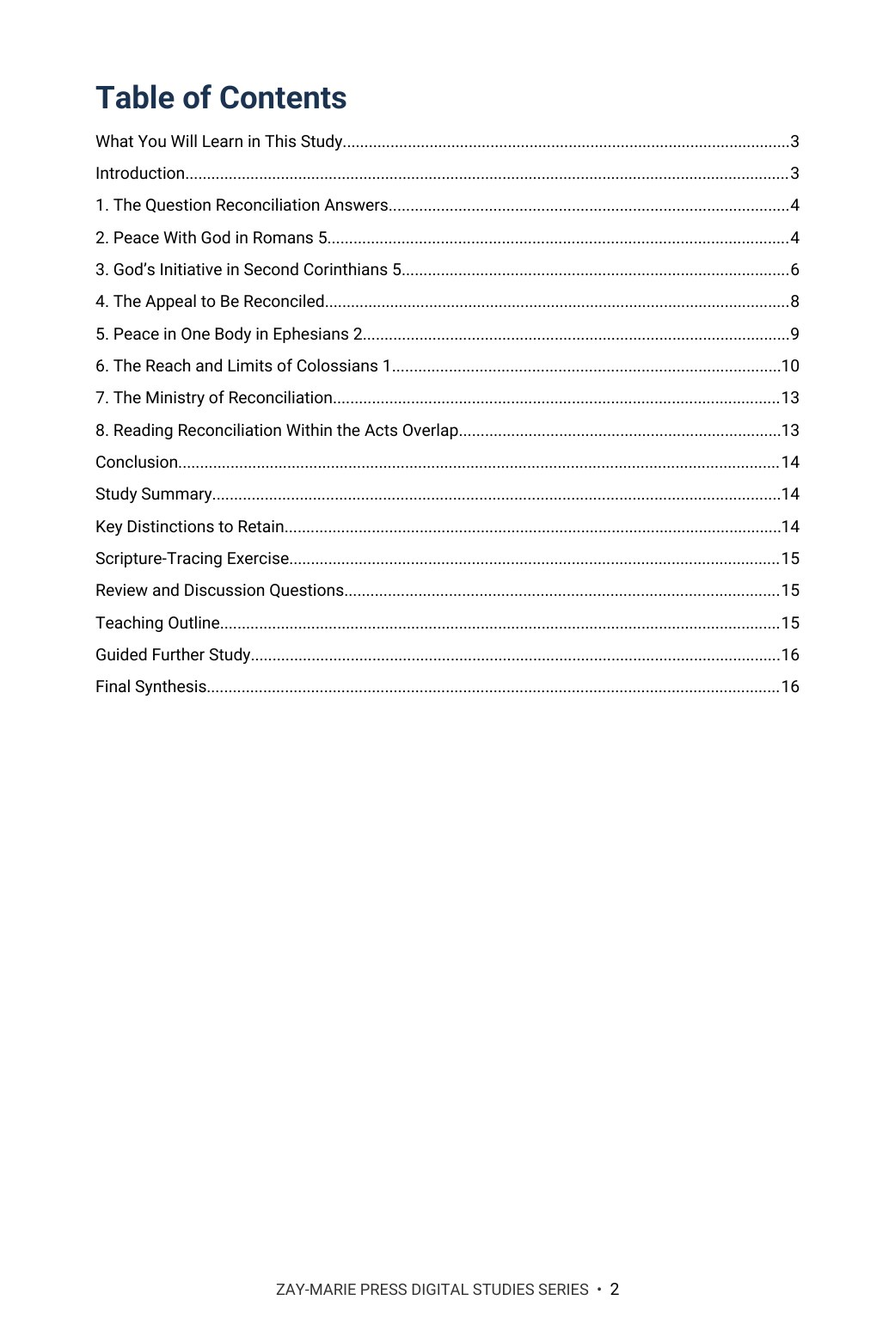
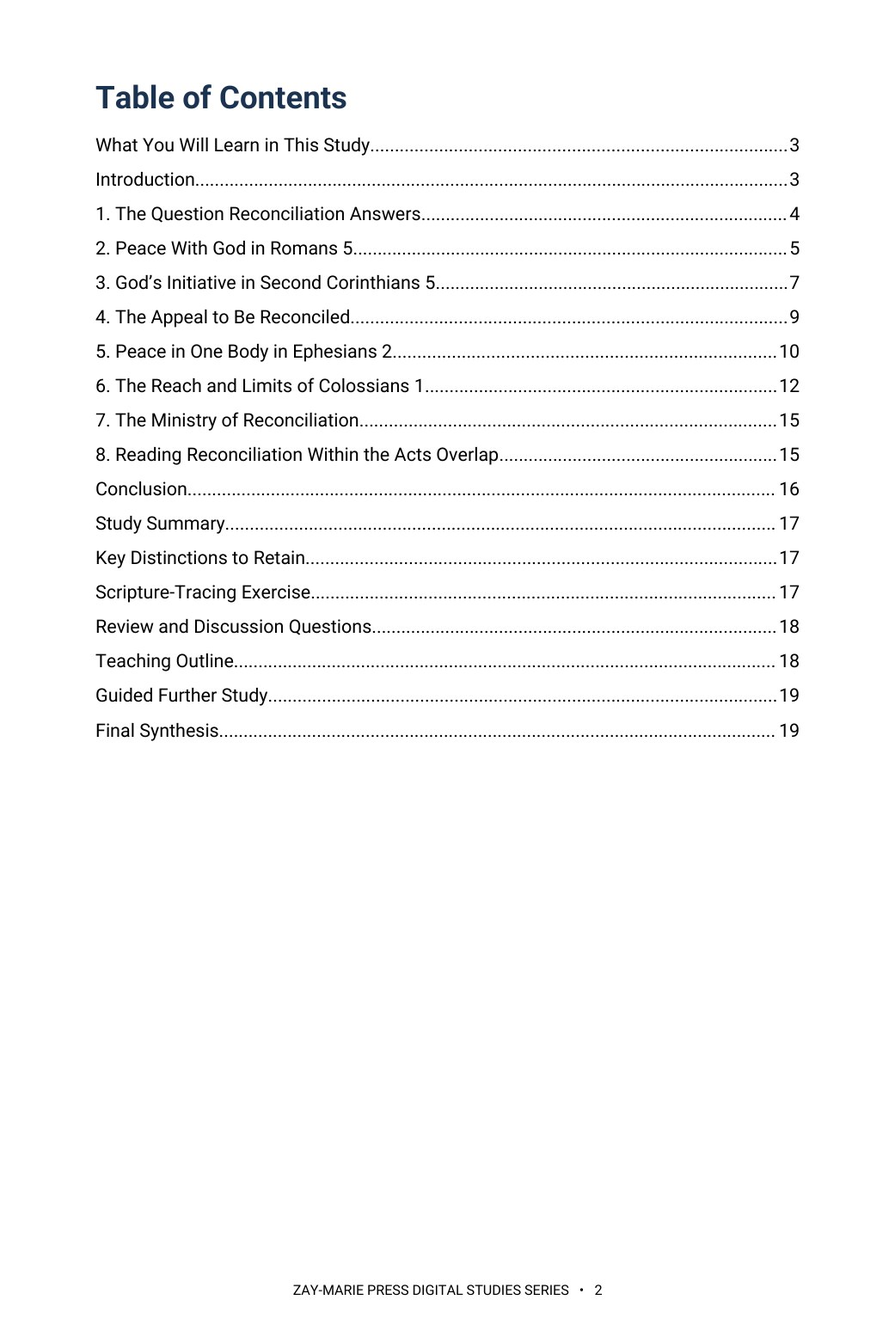
Study 55: rebuild at 10 pt (20 pages), retrofit edits, previews 2/3/9; trackers v1.68/v1.162
Claude-Session: https://claude.ai/code/session_01KcENxFzE91mCRyTPWhcwnE

Changed region(s): [[0.0922, 0.0922, 0.5533, 0.5531], [0.8607, 0.0922, 0.8915, 0.5224], [0.3074, 0.9526, 0.6455, 0.9834]]

diff --git a/study-55-reconciled-to-god.html b/study-55-reconciled-to-god.html
@@ -2,12 +2,12 @@
 <html lang="en"><head><meta charset="utf-8"><meta name="viewport" content="width=device-width,initial-scale=1"><title>Reconciled to God | Zay-Marie Press</title><meta name="description" content="Study 55 examines Paul’s doctrine of reconciliation: former enmity, peace with God through Christ, the appeal to be reconciled, and the entrusted ministry. Preview the study."><link rel="stylesheet" href="styles.css?v=20260921-4"><link rel="icon" type="image/png" href="assets/zay-marie-press-favicon.png"><style>
 .study-detail-page{background:#fff;color:#252525}.detail-hero{background:linear-gradient(135deg,#f8f5ec,#e3ece2);padding:58px 0}.detail-hero-grid{display:grid;grid-template-columns:minmax(250px,.72fr) minmax(0,1.28fr);gap:58px;align-items:center}.detail-cover{max-width:390px;margin:auto}.detail-cover img{display:block;width:100%;height:auto;box-shadow:0 14px 36px rgba(8,45,69,.18)}.detail-hero h1{font-size:clamp(2.7rem,5vw,4.7rem);line-height:1.02;margin:8px 0 10px;color:#143823}.detail-subtitle{font-family:Georgia,serif;font-size:1.35rem;font-weight:700;color:#082d45;margin:0 0 7px}.detail-kicker{font-family:Georgia,serif;font-style:italic;font-size:1.05rem;color:#4a4a44;margin:0 0 22px}.detail-copy{font-size:1.08rem;line-height:1.65;max-width:760px}.detail-buyline{display:flex;align-items:center;gap:18px;flex-wrap:wrap;margin-top:25px}.detail-price{font-family:Georgia,serif;font-size:2rem;font-weight:700;color:#143823}.detail-format,.preview-card .page-no{font-family:Arial,sans-serif;font-size:.76rem;font-weight:700;letter-spacing:.1em;text-transform:uppercase;color:#176b3a}.detail-button{display:inline-block;background:#176b3a;color:#fff;padding:13px 22px;font-family:Arial,sans-serif;font-size:.8rem;font-weight:700;letter-spacing:.07em;text-transform:uppercase}.detail-button.pending{opacity:.72;cursor:default}.detail-section{padding:66px 0}.detail-section.soft{background:#f6f7f2}.detail-section.cream{background:#faf8f2}.detail-section h2{color:#143823;margin:6px 0 18px;font-size:clamp(2rem,3.4vw,3rem)}.detail-section .lead{max-width:920px;font-size:1.1rem;line-height:1.62}.study-distinction{max-width:920px;margin-top:28px;margin-bottom:28px;padding:26px 28px;background:#fff;border:1px solid #d8d1bf;border-left:4px solid #b8871c}.study-distinction h3{margin:0 0 10px;color:#143823}.study-distinction p{margin:0 0 14px;line-height:1.62}.study-distinction a{font-family:Arial,sans-serif;font-weight:700;color:#176b3a;text-decoration:none}.study-points{display:grid;grid-template-columns:repeat(3,1fr);gap:18px;margin-top:28px;margin-bottom:28px}.study-point,.scripture-card,.preview-card,.include-item{background:#fff;border:1px solid var(--line);text-align:left}.study-point{border-top:3px solid #176b3a;padding:22px}.study-point h3{color:#143823;margin:0 0 8px;font-size:1.2rem}.study-point p,.scripture-card p,.preview-card p,.include-item p{margin:0;line-height:1.55}.scripture-grid{display:grid;grid-template-columns:repeat(4,1fr);gap:14px;margin-top:24px;margin-bottom:24px}.scripture-card{padding:22px 20px;color:#143823}.scripture-card h3{margin:0 0 9px;font-family:Georgia,serif;font-size:1rem;line-height:1.35}.scripture-card p{font-size:.94rem;color:#45453f}.excerpt{max-width:900px;margin:28px auto;border-left:4px solid #b8871c;padding:10px 0 10px 28px}.excerpt blockquote{font-family:Georgia,serif;font-size:clamp(1.45rem,2.5vw,2rem);line-height:1.45;color:#143823;margin:0 0 16px}.excerpt p{line-height:1.6;margin:0}.preview-grid{display:grid;grid-template-columns:repeat(2,1fr);gap:20px;margin-top:28px;margin-bottom:28px}.preview-card{padding:18px;min-height:210px;box-shadow:0 7px 20px rgba(20,40,25,.05)}.preview-image-link{display:block;margin:0 0 18px}.preview-image-link img{display:block;width:100%;height:auto;border:1px solid #d8d1bf;box-shadow:0 8px 22px rgba(20,40,25,.1);transition:transform .18s ease,box-shadow .18s ease}.preview-image-link:hover img{transform:translateY(-2px);box-shadow:0 11px 28px rgba(20,40,25,.16)}.preview-card h3{color:#143823;margin:8px 0 10px}.preview-instruction{margin:10px 0 0;font-family:Arial,sans-serif;font-size:.78rem;letter-spacing:.04em;color:#5b5b55}.includes-grid{display:grid;grid-template-columns:repeat(4,1fr);gap:14px;margin-top:26px}.include-item{padding:22px 20px;color:#143823}.include-item h3{margin:0 0 9px;font-family:Arial,sans-serif;font-size:.86rem;line-height:1.35;letter-spacing:.02em}.include-item p{font-size:.94rem;color:#45453f}.final-buy{background:#082d45;color:#fff;border-top:4px solid #b8871c;padding:42px 48px;display:grid;grid-template-columns:1fr auto;gap:36px;align-items:center}.final-buy .eyebrow,.final-buy h2,.final-buy .detail-price{color:#fff}.final-buy h2{margin:7px 0 6px}.final-buy p{margin:0}.final-offer{text-align:center}.back-link{display:inline-block;margin-top:18px;color:#143823;font-family:Arial,sans-serif;font-weight:700;text-decoration:none}.preview-lightbox{position:fixed;inset:0;z-index:10000;display:none;align-items:flex-start;justify-content:center;background:rgba(8,22,16,.88);padding:24px;overflow:auto}.preview-lightbox.open{display:flex}.preview-lightbox img{display:block;width:auto;height:auto;max-width:none;box-shadow:0 18px 55px rgba(0,0,0,.4);background:#fff}.preview-lightbox-close{position:fixed;top:18px;right:24px;z-index:10001;width:46px;height:46px;border:1px solid rgba(255,255,255,.65);border-radius:50%;background:rgba(0,0,0,.55);color:#fff;font:32px/1 Arial,sans-serif;cursor:pointer}@media(max-width:900px){.detail-hero-grid{grid-template-columns:1fr;gap:34px}.detail-cover{max-width:330px}.study-points{grid-template-columns:repeat(2,1fr)}.scripture-grid,.includes-grid{grid-template-columns:repeat(2,1fr)}.preview-grid,.final-buy{grid-template-columns:1fr}.final-offer{text-align:left}}@media(max-width:560px){.detail-hero{padding:42px 0}.detail-section{padding:50px 0}.study-points,.scripture-grid,.includes-grid{grid-template-columns:1fr}.final-buy{padding:32px 24px}.detail-buyline{align-items:flex-start;flex-direction:column;gap:8px}.preview-lightbox{padding:58px 10px 24px}.preview-lightbox img{width:100%;max-width:100%;height:auto}} .detail-hero h1{font-size:clamp(2.1rem,4.2vw,3.7rem);line-height:1.08}</style></head><body class="study-detail-page">
 <header class="site-header"><div class="wrap nav"><a class="logo" href="index.html" aria-label="Zay-Marie Press home"><img src="assets/zay-marie-press-logo-hq.png" alt="Zay-Marie Press" width="420" height="238"></a><button class="menu-toggle" type="button" aria-expanded="false" aria-controls="primary-nav">MENU</button><nav aria-label="Primary navigation" class="primary-nav" id="primary-nav"><a href="index.html">HOME</a><a href="books.html">BOOKS</a><a href="series.html">SERIES</a><a class="active" aria-current="page" href="digital-studies.html">DIGITAL STUDIES</a><a href="biblical-hermeneutics-course.html">COURSE</a><a href="about.html">ABOUT</a><a href="resources.html">RESOURCES</a><a href="contact.html">CONTACT</a></nav></div></header><main>
-<section class="detail-hero"><div class="wrap detail-hero-grid"><div class="detail-cover"><picture><source srcset="assets/study-55-cover.webp" type="image/webp"><img src="assets/study-55-cover.jpg" alt="Reconciled to God — Study 55 cover"></picture></div><div><div class="eyebrow">STUDY 55 · DIGITAL STUDY</div><h1>Reconciled to God</h1><p class="detail-subtitle">Christ’s Work, Peace With God, and the Ministry of Reconciliation</p><p class="detail-kicker">A close reading of Romans 5, 2 Corinthians 5, Ephesians 2, and Colossians 1</p><p class="detail-copy">What does Paul mean when he says former enemies have peace with God? This study follows the order of God’s initiative in Christ, the accomplished work, the entrusted word, and the appeal to hearers. It distinguishes a reconciled standing from a passing feeling of closeness.</p><p class="detail-copy">The study also asks how Christ’s peace shapes one Body, how far Colossians’ “all things” language reaches, and why a broad reconciling purpose cannot by itself prove that every person has personally received salvation.</p><div class="detail-buyline"><span class="detail-price">$5.99</span><span class="detail-format">Digital PDF · 16 Pages</span><span class="detail-button pending" aria-disabled="true">Checkout Coming Soon</span></div></div></div></section>
+<section class="detail-hero"><div class="wrap detail-hero-grid"><div class="detail-cover"><picture><source srcset="assets/study-55-cover.webp" type="image/webp"><img src="assets/study-55-cover.jpg" alt="Reconciled to God — Study 55 cover"></picture></div><div><div class="eyebrow">STUDY 55 · DIGITAL STUDY</div><h1>Reconciled to God</h1><p class="detail-subtitle">Christ’s Work, Peace With God, and the Ministry of Reconciliation</p><p class="detail-kicker">A close reading of Romans 5, 2 Corinthians 5, Ephesians 2, and Colossians 1</p><p class="detail-copy">What does Paul mean when he says former enemies have peace with God? This study follows the order of God’s initiative in Christ, the accomplished work, the entrusted word, and the appeal to hearers. It distinguishes a reconciled standing from a passing feeling of closeness.</p><p class="detail-copy">The study also asks how Christ’s peace shapes one Body, how far Colossians’ “all things” language reaches, and why a broad reconciling purpose cannot by itself prove that every person has personally received salvation.</p><div class="detail-buyline"><span class="detail-price">$5.99</span><span class="detail-format">Digital PDF · 20 Pages</span><span class="detail-button pending" aria-disabled="true">Checkout Coming Soon</span></div></div></div></section>
 <section class="detail-section"><div class="wrap"><div class="eyebrow">ABOUT THIS STUDY</div><h2>From Former Enmity to Peace With God</h2><p class="lead">Romans 5 locates peace after justification by faith and places it alongside hardship, not in place of it. Second Corinthians 5 names God’s initiative in Christ and the ministry and word entrusted to Paul and his coworkers. Ephesians 2 joins peace among former Jew and Gentile divisions to access to God in one Body. Colossians 1 speaks broadly of Christ’s reconciling purpose and then directly addresses people formerly alienated. Each passage contributes to the doctrine without surrendering its own audience and argument.</p><p class="lead">Readers who have studied Study 53 (Redemption) may wonder whether this study repeats its treatment of Christ’s blood, since both examine benefits secured through his death. Study 53 asks what bondage redemption answers and what price secures deliverance; Study 55 asks what becomes of former enemies in relation to God and why Paul announces an appeal to be reconciled. Readers of Study 54 (Justification) will encounter Romans 5:1 in both studies. Study 54 establishes the righteous verdict received by faith; this study follows the peace named in that verse and the received reconciliation of Romans 5:10–11. Study 37 (What Does Paul Mean by “New Creation”?) examines 2 Corinthians 5:17; this study follows verses 18–21 to distinguish God’s reconciling work, the entrusted message, and the hearer’s response. Study 52 (Sonship and Adoption) addresses standing and inheritance, while this study addresses enmity and peace. The question this study alone follows through all four principal passages is: how does God’s action in Christ establish peace, and how does Paul’s appeal relate to that accomplished work?</p>
 <div class="study-distinction"><h3>How These Studies Relate</h3><p>Study 55 traces former enmity, God’s reconciling action in Christ, received peace, and the entrusted appeal. The related studies answer neighboring questions without making their terms interchangeable.</p><p><a href="study-53-redemption.html">Study 53 — Redemption</a> Examine the bondage answered and price paid through Christ’s blood; then return here to ask what relationship of peace that work establishes.</p><p><a href="study-54-justification.html">Study 54 — Justification</a> Study the righteous verdict received by faith; Romans 5 then shows how justified believers have peace with God.</p><p><a href="study-37-what-does-paul-mean-by-new-creation.html">Study 37 — What Does Paul Mean by “New Creation”?</a> Read 2 Corinthians 5:17 in its own argument before following verses 18–21 into God’s reconciling work and the appeal.</p><p><a href="study-52-sonship-and-adoption.html">Study 52 — Sonship and Adoption</a> Compare peace with God to the distinct standing and inheritance named by adoption.</p><p class="connection-guide-link"><a href="study-connections.html#study-55">Explore the full connection guide for Study 55 →</a></p></div>
 <div class="eyebrow">WHAT YOU’LL STUDY</div><h2>Follow Paul’s Argument From Work to Appeal</h2><div class="study-points"><div class="study-point"><h3>Former Enmity and Present Peace</h3><p>Read Romans 5:1–11 for the former condition, Christ’s initiative, the benefit received, and confidence amid hardship.</p></div><div class="study-point"><h3>God’s Initiative in Christ</h3><p>Trace the verbs in 2 Corinthians 5:18–21: God acts, entrusts a word, and speaks through ambassadors.</p></div><div class="study-point"><h3>The Appeal to Be Reconciled</h3><p>Compare how 2 Corinthians 5:18–20 describes Christ’s work, the proclamation and the hearer’s appeal, noting the verbs for each.</p></div><div class="study-point"><h3>Peace in One Body</h3><p>Follow Ephesians 2:11–18, noting the former distinction Paul names, what Christ is said to make, and where access leads.</p></div><div class="study-point"><h3>The Reach of “All Things”</h3><p>Mark each shift between “all things” and “you” in Colossians 1:19–23, and the exhortation in verse 23.</p></div><div class="study-point"><h3>Ministry and Conduct</h3><p>Examine what 2 Corinthians 5:18–20 says ambassadors announce, and how Romans 12:18 words the believer’s own conduct toward others.</p></div></div>
 <div class="eyebrow">KEY SCRIPTURES</div><h2>Read the Passages in Their Own Contexts</h2><div class="scripture-grid"><div class="scripture-card"><h3>Romans 5:1–11</h3><p>Peace with God, former enmity, and reconciliation received through Christ.</p></div><div class="scripture-card"><h3>2 Corinthians 5:14–21</h3><p>God’s action in Christ, the entrusted word, the ambassador, and the appeal.</p></div><div class="scripture-card"><h3>Ephesians 2:11–18</h3><p>Christ’s peace among former divisions and access to the Father in one Body.</p></div><div class="scripture-card"><h3>Colossians 1:19–23</h3><p>“All things,” the formerly alienated “you,” and the stated gospel exhortation.</p></div><div class="scripture-card"><h3>Romans 11:11–15</h3><p>The phrase “reconciling of the world” as it appears in Paul’s argument about Israel.</p></div><div class="scripture-card"><h3>Romans 12:18</h3><p>Paul’s instruction on living peaceably with all, and what he says depends on the believer.</p></div></div>
 <div class="eyebrow">FROM THE STUDY</div><h2>A Distinction That Guides the Whole Study</h2><div class="excerpt"><blockquote>God acts in Christ; Paul announces the work and delivers the appeal.</blockquote><p>Reconciliation is not a mood the believer manufactures, nor can the hearer’s response be exchanged for Christ’s reconciling work. The study asks readers to follow the movement of each passage before drawing a doctrinal conclusion.</p></div>
-<div class="eyebrow">A LOOK INSIDE</div><h2>Preview the Study Before You Purchase</h2><p class="preview-instruction">Click any page to enlarge it for reading.</p><div class="preview-grid"><div class="preview-card"><a class="preview-image-link" data-preview-lightbox href="assets/study-55-page-2.jpg"><img src="assets/study-55-page-2.jpg" alt="Study 55 page 2: table of contents"></a><div class="page-no">Page 2</div><h3>Table of Contents</h3><p>See the study’s full structure and scope at a glance.</p></div><div class="preview-card"><a class="preview-image-link" data-preview-lightbox href="assets/study-55-page-3.jpg"><img src="assets/study-55-page-3.jpg" alt="Study 55 page 3: what you will learn"></a><div class="page-no">Page 3</div><h3>What You Will Learn</h3><p>See the study’s goal, outline, and the question it sets out to answer.</p></div><div class="preview-card"><a class="preview-image-link" data-preview-lightbox href="assets/study-55-page-8.jpg"><img src="assets/study-55-page-8.jpg" alt="Study 55 page 8: the appeal to be reconciled"></a><div class="page-no">Page 8</div><h3>The Appeal to Be Reconciled</h3><p>See how the study reads Paul’s appeal in 2 Corinthians 5:20 within its letter and its audience.</p></div></div>
-<div class="eyebrow">WHAT’S INCLUDED</div><h2>A Focused Study for<br>Reading and Teaching</h2><div class="includes-grid"><div class="include-item"><h3>16-Page Digital PDF</h3><p>The approved cover and 15-page interior with a numbered title page and table of contents.</p></div><div class="include-item"><h3>Eight Teaching Sections</h3><p>Move from the question reconciliation answers through Romans, Corinthians, Ephesians, and Colossians to ministry and application.</p></div><div class="include-item"><h3>Key Distinctions</h3><p>Keep work and message, scope and reception, and reconciliation and neighboring benefits distinct.</p></div><div class="include-item"><h3>Scripture-Tracing Exercise</h3><p>Record audience, former condition, divine action, and warranted conclusion in each passage.</p></div><div class="include-item"><h3>Teaching Outline</h3><p>Use a six-part framework for presenting the doctrine clearly.</p></div><div class="include-item"><h3>Guided Further Study</h3><p>Investigate peace, ministry, corporate unity, and the scope of the passages with directed questions.</p></div></div>
-<div class="final-buy"><div><div class="eyebrow">STUDY 55 · DIGITAL STUDY</div><h2>Reconciled to God</h2><p>16-page digital PDF · For personal use</p></div><div class="final-offer"><div class="detail-price">$5.99</div><span class="detail-button pending" aria-disabled="true">Checkout Coming Soon</span></div></div><a class="back-link" href="digital-studies.html">← Back to All Digital Studies</a></div></section></main><div class="preview-lightbox" id="preview-lightbox" role="dialog" aria-modal="true" aria-label="Expanded study preview"><button class="preview-lightbox-close" type="button" aria-label="Close preview">×</button><img id="preview-lightbox-image" alt=""></div><footer class="site-footer"><div class="wrap footer-grid"><div class="footer-about"><h3>Zay-Marie Press</h3><p class="footer-tagline"><em>Where the Bible Means What It Says.</em></p><p>Zay-Marie Press is a Christian theological publisher dedicated to producing doctrinally precise, carefully structured biblical resources that equip pastors, teachers, and serious students with clarity, depth, and Scripture-anchored truth.</p><p><a href="https://zaymariepress.com">zaymariepress.com</a><br><a href="mailto:info@zaymariepress.com">info@zaymariepress.com</a></p></div><div class="footer-column"><h3>Explore</h3><div class="footer-links-stacked"><a href="books.html">Books</a><br><a href="series.html">Series</a><br><a href="biblical-hermeneutics-course.html">Course</a><br><a href="digital-studies.html">Digital Studies</a><br><a href="resources.html">Resources</a><br><a href="bible-book-summaries.html">Bible Book Summaries</a><br><a href="doctrinal-packets.html">Doctrinal Packets</a><br><a href="historical-drift.html">Historical Drift</a><br><a href="about.html">About</a><br><a href="contact.html">Contact</a></div></div><div class="footer-column"><h3>Reader Support</h3><div class="footer-links-stacked"><a href="reader-support.html#faq">FAQ</a><br><a href="reader-support.html#shipping-returns">Shipping &amp; Returns</a><br><a href="reader-support.html#digital-downloads">Digital Downloads</a><br><a href="reader-support.html#contact-support">Contact Support</a></div></div><div class="footer-column"><h3>Acts Overlap</h3><p><strong>Acts Overlap Theology Series</strong></p><p><em>Two Distinct Streams. One Overlap.</em></p><p><a href="series.html">Series Overview</a></p></div></div><div class="wrap footer-bottom">© 2026 Zay-Marie Press. All rights reserved.</div></footer><script src="site.js"></script><script>const lightbox=document.getElementById('preview-lightbox'),lightboxImage=document.getElementById('preview-lightbox-image'),closeLightbox=()=>{lightbox.classList.remove('open');lightboxImage.src='';};document.querySelectorAll('[data-preview-lightbox]').forEach(link=>link.addEventListener('click',event=>{event.preventDefault();lightboxImage.src=link.href;lightboxImage.alt=link.querySelector('img').alt;lightbox.classList.add('open');}));document.querySelector('.preview-lightbox-close').addEventListener('click',closeLightbox);lightbox.addEventListener('click',event=>{if(event.target===lightbox)closeLightbox();});document.addEventListener('keydown',event=>{if(event.key==='Escape')closeLightbox();});</script></body></html>
+<div class="eyebrow">A LOOK INSIDE</div><h2>Preview the Study Before You Purchase</h2><p class="preview-instruction">Click any page to enlarge it for reading.</p><div class="preview-grid"><div class="preview-card"><a class="preview-image-link" data-preview-lightbox href="assets/study-55-page-2.jpg"><img src="assets/study-55-page-2.jpg" alt="Study 55 page 2: table of contents"></a><div class="page-no">Page 2</div><h3>Table of Contents</h3><p>See the study’s full structure and scope at a glance.</p></div><div class="preview-card"><a class="preview-image-link" data-preview-lightbox href="assets/study-55-page-3.jpg"><img src="assets/study-55-page-3.jpg" alt="Study 55 page 3: what you will learn"></a><div class="page-no">Page 3</div><h3>What You Will Learn</h3><p>See the study’s goal, outline, and the question it sets out to answer.</p></div><div class="preview-card"><a class="preview-image-link" data-preview-lightbox href="assets/study-55-page-9.jpg"><img src="assets/study-55-page-9.jpg" alt="Study 55 page 9: the appeal to be reconciled"></a><div class="page-no">Page 9</div><h3>The Appeal to Be Reconciled</h3><p>See how the study reads Paul’s appeal in 2 Corinthians 5:20 within its letter and its audience.</p></div></div>
+<div class="eyebrow">WHAT’S INCLUDED</div><h2>A Focused Study for<br>Reading and Teaching</h2><div class="includes-grid"><div class="include-item"><h3>20-Page Digital PDF</h3><p>The approved cover and 15-page interior with a numbered title page and table of contents.</p></div><div class="include-item"><h3>Eight Teaching Sections</h3><p>Move from the question reconciliation answers through Romans, Corinthians, Ephesians, and Colossians to ministry and application.</p></div><div class="include-item"><h3>Key Distinctions</h3><p>Keep work and message, scope and reception, and reconciliation and neighboring benefits distinct.</p></div><div class="include-item"><h3>Scripture-Tracing Exercise</h3><p>Record audience, former condition, divine action, and warranted conclusion in each passage.</p></div><div class="include-item"><h3>Teaching Outline</h3><p>Use a six-part framework for presenting the doctrine clearly.</p></div><div class="include-item"><h3>Guided Further Study</h3><p>Investigate peace, ministry, corporate unity, and the scope of the passages with directed questions.</p></div></div>
+<div class="final-buy"><div><div class="eyebrow">STUDY 55 · DIGITAL STUDY</div><h2>Reconciled to God</h2><p>20-page digital PDF · For personal use</p></div><div class="final-offer"><div class="detail-price">$5.99</div><span class="detail-button pending" aria-disabled="true">Checkout Coming Soon</span></div></div><a class="back-link" href="digital-studies.html">← Back to All Digital Studies</a></div></section></main><div class="preview-lightbox" id="preview-lightbox" role="dialog" aria-modal="true" aria-label="Expanded study preview"><button class="preview-lightbox-close" type="button" aria-label="Close preview">×</button><img id="preview-lightbox-image" alt=""></div><footer class="site-footer"><div class="wrap footer-grid"><div class="footer-about"><h3>Zay-Marie Press</h3><p class="footer-tagline"><em>Where the Bible Means What It Says.</em></p><p>Zay-Marie Press is a Christian theological publisher dedicated to producing doctrinally precise, carefully structured biblical resources that equip pastors, teachers, and serious students with clarity, depth, and Scripture-anchored truth.</p><p><a href="https://zaymariepress.com">zaymariepress.com</a><br><a href="mailto:info@zaymariepress.com">info@zaymariepress.com</a></p></div><div class="footer-column"><h3>Explore</h3><div class="footer-links-stacked"><a href="books.html">Books</a><br><a href="series.html">Series</a><br><a href="biblical-hermeneutics-course.html">Course</a><br><a href="digital-studies.html">Digital Studies</a><br><a href="resources.html">Resources</a><br><a href="bible-book-summaries.html">Bible Book Summaries</a><br><a href="doctrinal-packets.html">Doctrinal Packets</a><br><a href="historical-drift.html">Historical Drift</a><br><a href="about.html">About</a><br><a href="contact.html">Contact</a></div></div><div class="footer-column"><h3>Reader Support</h3><div class="footer-links-stacked"><a href="reader-support.html#faq">FAQ</a><br><a href="reader-support.html#shipping-returns">Shipping &amp; Returns</a><br><a href="reader-support.html#digital-downloads">Digital Downloads</a><br><a href="reader-support.html#contact-support">Contact Support</a></div></div><div class="footer-column"><h3>Acts Overlap</h3><p><strong>Acts Overlap Theology Series</strong></p><p><em>Two Distinct Streams. One Overlap.</em></p><p><a href="series.html">Series Overview</a></p></div></div><div class="wrap footer-bottom">© 2026 Zay-Marie Press. All rights reserved.</div></footer><script src="site.js"></script><script>const lightbox=document.getElementById('preview-lightbox'),lightboxImage=document.getElementById('preview-lightbox-image'),closeLightbox=()=>{lightbox.classList.remove('open');lightboxImage.src='';};document.querySelectorAll('[data-preview-lightbox]').forEach(link=>link.addEventListener('click',event=>{event.preventDefault();lightboxImage.src=link.href;lightboxImage.alt=link.querySelector('img').alt;lightbox.classList.add('open');}));document.querySelector('.preview-lightbox-close').addEventListener('click',closeLightbox);lightbox.addEventListener('click',event=>{if(event.target===lightbox)closeLightbox();});document.addEventListener('keydown',event=>{if(event.key==='Escape')closeLightbox();});</script></body></html>

diff --git a/site.js b/site.js
@@ -62,7 +62,7 @@ const resourceModal=document.querySelector('#resource-modal'), resourceModalTitl
 if(resourceModal&&resourceModalTriggers.length){const closeResourceModal=()=>{resourceModal.hidden=true;document.body.classList.remove('resource-modal-open');lastResourceTrigger?.focus();};resourceModalTriggers.forEach(trigger=>trigger.addEventListener('click',()=>{lastResourceTrigger=trigger;if(resourceModalTitle)resourceModalTitle.textContent=trigger.dataset.title||'Resource';if(resourceModalDescription)resourceModalDescription.textContent=trigger.dataset.description||'';if(resourceModalLink){resourceModalLink.href=trigger.dataset.href||'#';resourceModalLink.textContent=trigger.dataset.linkText||'OPEN RESOURCE';}resourceModal.hidden=false;document.body.classList.add('resource-modal-open');resourceModalClose?.focus();}));resourceModalClose?.addEventListener('click',closeResourceModal);resourceModal.addEventListener('click',e=>{if(e.target===resourceModal)closeResourceModal();});document.addEventListener('keydown',e=>{if(e.key==='Escape'&&!resourceModal.hidden)closeResourceModal();});}
 
 /* Display the verified final-PDF page count at the primary purchase decision point. */
-const digitalStudyPageCounts={1:17,2:19,3:16,4:18,5:16,6:16,7:14,8:13,9:16,10:20,11:15,12:15,13:19,14:15,15:15,16:16,17:18,18:18,19:16,20:16,21:17,22:16,23:14,24:16,25:17,26:16,27:16,28:16,29:19,30:17,31:18,32:19,33:18,34:16,35:16,36:16,37:16,38:16,39:16,40:16,41:16,42:16,43:20,44:16,45:16,46:20,47:16,48:16,49:17,50:16,51:16,52:19,53:19,54:16,55:16,56:16,57:16,58:16,59:20,60:15,61:16,62:16,63:16,64:16,65:16,66:16,67:16,68:16,69:16,70:16,71:16};
+const digitalStudyPageCounts={1:17,2:19,3:16,4:18,5:16,6:16,7:14,8:13,9:16,10:20,11:15,12:15,13:19,14:15,15:15,16:16,17:18,18:18,19:16,20:16,21:17,22:16,23:14,24:16,25:17,26:16,27:16,28:16,29:19,30:17,31:18,32:19,33:18,34:16,35:16,36:16,37:16,38:16,39:16,40:16,41:16,42:16,43:20,44:16,45:16,46:20,47:16,48:16,49:17,50:16,51:16,52:19,53:19,54:16,55:20,56:16,57:16,58:16,59:20,60:15,61:16,62:16,63:16,64:16,65:16,66:16,67:16,68:16,69:16,70:16,71:16};
 const digitalStudyMatch=window.location.pathname.match(/\/study-(\d+)-/i);
 const digitalStudyFormat=document.querySelector('.detail-hero .detail-format');
 if(digitalStudyMatch&&digitalStudyFormat){const studyNumber=Number(digitalStudyMatch[1]),pageCount=digitalStudyPageCounts[studyNumber];if(pageCount)digitalStudyFormat.textContent=`Digital PDF · ${pageCount} Pages`;}

diff --git a/CLAUDE.md b/CLAUDE.md
@@ -23,7 +23,7 @@ These are kept in the repo at `controlling-documents/` and are the current versi
 - As of v1.50 (publisher directive, 2026-10-03), the **What You Will Learn in This Study** section is always bulleted, never set as running paragraphs, written into this file in the same pass (Master Standard Section 3 item 4, Section 6 structure line, Section 22): a list of bullet points, each describing one process, textual marker or interpretive discipline the reader will practice (Section 17 still governs what they may say); at most one short lead-in line may stand above the bullets (for example, “By the end of this study, you should be able to:”); the Study Goal callout and the Study Outline keep their own forms. It governs every new study and every study rebuilt or retrofitted from now on; earlier studies take it when reopened or when the publisher directs. In every study check (Step 1), report whether the section is bulleted. First applied to Study 43.
 **`controlling-documents/Digital_Studies_Relationship_Map_v1.39.md`** — records each study's distinct subject, its related studies, the eight priced six-study collections, the Paul's Missionary Journeys cross-reference map, and the five primary catalog categories (currently version 1.39, covers Studies 1–71; update it as new studies publish, bump the version number, rename the file to match, and log the change in its own version-history table — mirroring the Master Standard's `_vX.Y` filename convention). Check a proposed topic against it before recommending or writing a new study. (2026-09-28: the file was missing from this repo despite this note referencing it; replaced from the publisher's copy and bumped v1.15→v1.25 in the same pass. If this note ever again points to a version not present under `controlling-documents/`, ask the publisher for a copy rather than proceeding without the check.)
 - **`controlling-documents/Digital_Studies_Category_Standard_v1.1.md`** — FINAL and binding (publisher, 2026-10-01): the rules for the five primary catalog categories (Foundations, Israel & Prophecy, Body of Christ, Passages, Doctrinal Themes), the ordered decision procedure for new studies, the precedents, all 71 fixed assignments, and the cover-label form for each category. Read it before placing any card or cover label. Do not ask the publisher where a study belongs; apply the procedure and state the result. Only the publisher changes a ruling; then bump this Standard's version and filename, re-letter the cover, and update the Relationship Map.
-- **`controlling-documents/Doctrinal_Upgrade_Retrofit_Plan_v1.67.md`** — working tracker for retrofitting Studies 1–59 to the 2026-10-02 doctrinal upgrade (Framework/PAM v1.1, Master Standard v1.40, Rules 7–17): withdrawn-wording search keys, impact tiers, waves and the per-study method. Read it before continuing the retrofit in any session; update status, bump the version and rename the file as work proceeds.
+- **`controlling-documents/Doctrinal_Upgrade_Retrofit_Plan_v1.68.md`** — working tracker for retrofitting Studies 1–59 to the 2026-10-02 doctrinal upgrade (Framework/PAM v1.1, Master Standard v1.40, Rules 7–17): withdrawn-wording search keys, impact tiers, waves and the per-study method. Read it before continuing the retrofit in any session; update status, bump the version and rename the file as work proceeds.
 - **`controlling-documents/Doctrinal_Packet_Standard_v0.3.md`** — Doctrinal Packet Standard (DRAFT; §7 approved). Governs the separate Doctrinal Packets product strand (5-page interpretive PDFs per Bible book — a print-friendly cover as page 1 plus 4 content pages, $2.99, KJV, pilot: Genesis, live at `packet-genesis.html`, hub `doctrinal-packets.html`; site pages say "5 Pages", cover styles live in `packets.css`, Old Testament blue and New Testament soft pale green, hub listed in Bible order). **Preview rule (publisher directive, 2026-09-29, packets only):** previews show about one page's worth in two cropped views (top of page 1 through the anchor texts; the chart section) — never the exegesis, architecture, Mystery contrast, logic chain, outline, or closing. Master Standard §16/§17 still govern Digital Studies. Bump the version and rename the file as the Standard is finalized.
 - **`controlling-documents/Preview_Page_Spoiler_Retrofit_Audit_v1.4.md`** — working tracker for the Studies 1–60 preview-page conclusion-spoiler retrofit (see the section below). Read it before continuing that audit in any session; update its status fields and changelog, bump the version, and rename the file to match as the audit proceeds — same `_vX.Y` convention as the other controlling documents. As of v1.1, the website-side half was DONE: all 60 studies' "What You'll Study" text was judged against the rule (methodology documented in the file) and 22 points across 11 studies were rewritten and pushed; an unrelated Study 22 content bug (Study 21's content had leaked into it) was also found and fixed. As of v1.2, the publisher supplied Studies 1–60's interior production PDFs and the interior-PDF half was also surveyed (read-only): 10 studies (37, 41, 45, 47, 48, 49, 51, 52, 53, 54) were found to have at least one interior "What You Will Learn" violation, 50 studies were confirmed compliant, and the orphaned `assets/study-45-sanctification-under-grace.docx` (removed from the repo per the publisher in v1.0) was confirmed word-for-word identical to Study 45's actual production interior PDF content. As of v1.3, the publisher supplied editable DOCX sources for all 10 violating studies; all 15 violating points were rewritten and approved, delivered as corrected final PDFs, and — along the way — a second defect was found and fixed (Studies 47 and 48's source DOCX still had an unintegrated cover placeholder despite both being long-published live with real covers; fixed by inserting the existing approved cover art). The website's "What You Will Learn" preview image (`study-NN-page-3.jpg`) was regenerated from the corrected content for all 10 studies and pushed to `main` (commit `cea1859`), verified against a fresh clone. **The website side of this audit is now fully compliant for all 60 studies.** Outstanding: the publisher's purchasable interior PDF files themselves have corrected versions delivered, but distribution to existing purchasers was decided by the publisher on 2026-09-29: silent swap of the files behind the existing downloads, no reissue notice (recorded in the v1.4 changelog entry; the product files are not in this repo).
 

diff --git a/controlling-documents/Doctrinal_Upgrade_Retrofit_Plan_v1.68.md b/controlling-documents/Doctrinal_Upgrade_Retrofit_Plan_v1.68.md
@@ -160,3 +160,4 @@ Working tracker for correcting published studies to the Framework/PAM v1.1, Mast
 - v1.65 (2026-10-03): IMPORTANT FINDING: the "FINAL" DOCX files the publisher re-sent in this session for Studies 46 and 52–58 predate the 2026-10-02 retrofits (they still carry the "The Framework does not assign …" lines and, for 52, the withdrawn Galatians 3 wording). The retrofit edits recorded in the plan rows are therefore re-applied from the plan rows each time a study is rebuilt from these sources, and checked against the row. Study 46: the Rev 3:5 row statement was missing from the rebuilt copy and is restored ("Revelation belongs wholly to Israel’s Prophecy Program; the Body does not appear in the book"); the page-13 preview re-rendered; 20 pages unchanged.
 - v1.66 (2026-10-03): Study 52 rebuilt at 10 pt (Roboto, current page) from the publisher’s older FINAL DOCX with the 2026-10-02 retrofit (plan row, v1.21) re-applied: eleven "The Framework does not assign …" anchors and the Hebrews sentence converted to reader-facing forms; Galatians 3:26–29 standing sentence (and "Israel remains Israel, and the Body is not Israel") replacing the withdrawn participation wording; Study 40 pointer removed; "participation in the seed is spiritual" reworded; Romans 11 four boundaries and triad added (Group 3). 19 pages (was 16). `site.js` 52:19; page-count text 16→19; previews 2, 3 and 5 re-rendered (same pages). Files named with ROBOTO.
 - v1.67 (2026-10-03): Study 53 rebuilt at 10 pt (Roboto, current page) from the publisher’s older FINAL DOCX with the 2026-10-02 retrofit re-applied (13 "The Framework does not assign …" lines converted to reader-facing forms, Hebrews covenant-it-quotes form; Revelation anchor removed; Gal 3:13 anchor replaced by the standing Galatians 3 sentence; Romans 11 four boundaries and triad added in 2.4; Revelation 5:9 moved from Group 2 to Group 1 in Guided Further Study, with the Group 1 and Group 2 Compare lines adjusted). 19 pages (was 16). `site.js` 53:19; page-count text 16→19; previews 2, 3, 5 re-rendered at 1041×1562. Next: 10 pt resets for 55, 56, 57, 58 (DOCX on hand); 43 and 54 need DOCX; 42, 44, 45, 47, 48, 49, 50, 51 need Roboto finals or a rebuild.
+- v1.68 (2026-10-03): Study 55 rebuilt at 10 pt (Roboto, current page) from the publisher’s older FINAL DOCX with the 2026-10-02 retrofit re-applied (2 "The Framework does not assign …" lines converted; Colossians letter line added after the second paragraph of Section 6; withdrawn "gathered into the Body" overlap sentence in 5.3 replaced by the standing overlap sentence; withdrawn clarifier in Investigation 5 replaced by the standing remnant/Body sentence; Romans 11 four boundaries and triad added in 8.2; "and not a transfer" added to Acts 28 wording in 5.3 and 8.1). 20 pages (was 16). `site.js` 55:20; page-count text 16→20; previews 2, 3 and 9 (third moved from page 8 to 9: the appeal section; `study-55-page-8.jpg` removed). Next: 10 pt resets for 56, 57, 58 (DOCX on hand); 43 and 54 need DOCX; 42, 44, 45, 47, 48, 49, 50, 51 need Roboto finals or a rebuild.

diff --git a/controlling-documents/Digital_Studies_PAM_Audit_v1.162.md b/controlling-documents/Digital_Studies_PAM_Audit_v1.162.md
@@ -391,3 +391,4 @@ Study 15 PDF not yet supplied. Typography: none of Studies 2, 3, 6, 8 is in EB G
 - v1.159 (2026-10-03): Study 46 Rev 3:5 row restored; plan finding on pre-retrofit sources (see Retrofit Plan v1.65).
 - v1.160 (2026-10-03): Study 52 rebuilt at 10 pt, 19 pages (see Retrofit Plan v1.66).
 - v1.161 (2026-10-03): Study 53 rebuilt at 10 pt, 19 pages (see Retrofit Plan v1.67).
+- v1.162 (2026-10-03): Study 55 rebuilt at 10 pt, 20 pages (see Retrofit Plan v1.68).
